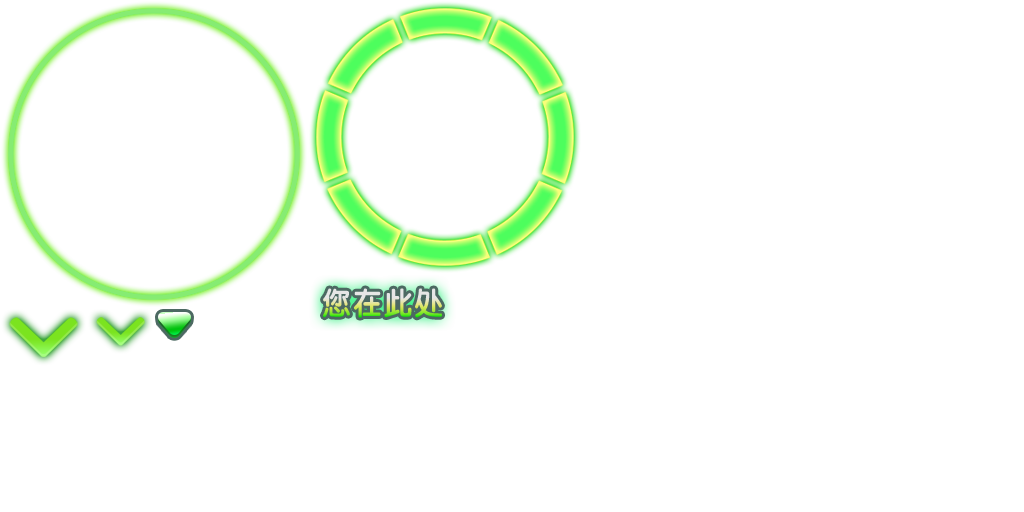
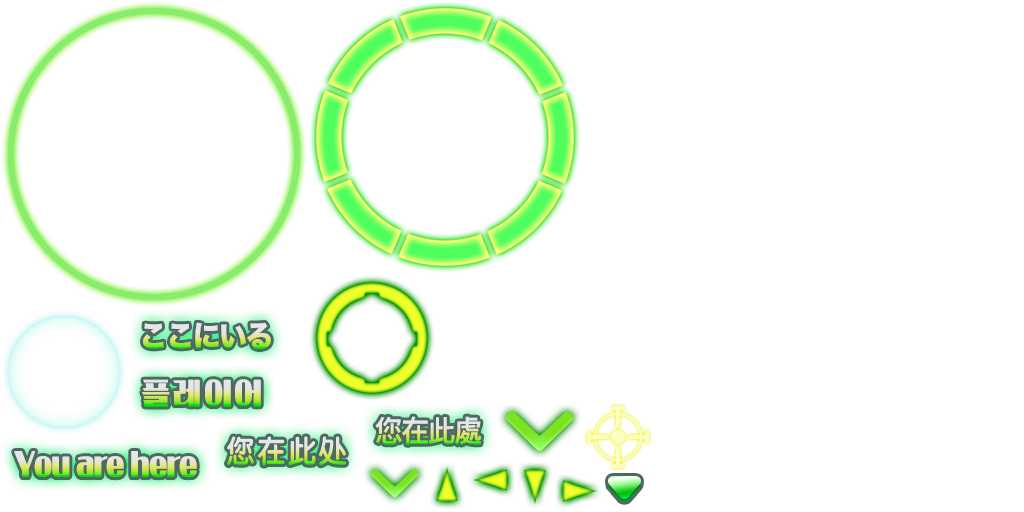
laya-module:[add] pos_tip 国际化

Changed region(s): [[0.0, 0.5312, 0.6562, 1.0]]

diff --git a/src/view/scenes/game/ani_wrap/posTip.ts b/src/view/scenes/game/ani_wrap/posTip.ts
@@ -2,12 +2,13 @@ import { createSprite } from 'utils/dataUtil';
 import { playSkeleton } from 'utils/utils';
 import { viewState } from 'view/viewState';
 import { Skeleton } from 'laya/ani/bone/Skeleton';
+import { getLang } from 'ctrl/hall/hallCtrlUtil';
+import { createAni, tempAni } from './award/awardCoin';
 
 /** 当前用户的位置的动画 */
 let pop_tip_ani: Skeleton;
 export function activePosTip() {
     createPosTip();
-    playSkeleton(pop_tip_ani, 0, true);
     return pop_tip_ani;
 }
 
@@ -15,20 +16,21 @@ export function stopPosTip() {
     if (!pop_tip_ani && pop_tip_ani.destroyed) {
         return;
     }
-    pop_tip_ani.stop();
-    pop_tip_ani.removeSelf();
+    tempAni('pos_tip', pop_tip_ani);
 }
 
 function createPosTip() {
+    const lang = getLang();
     const { ani_wrap } = viewState;
     const { upside_down } = viewState.game;
     if (!pop_tip_ani || pop_tip_ani.destroyed) {
-        pop_tip_ani = createSprite('other', 'pos_tip') as Skeleton;
-    }
-    if (upside_down) {
-        pop_tip_ani.scaleX = -1;
+        pop_tip_ani = createAni('pos_tip');
     }
     if (!pop_tip_ani.parent) {
         ani_wrap.addChild(pop_tip_ani);
     }
+    if (upside_down) {
+        pop_tip_ani.scaleX = -1;
+    }
+    playSkeleton(pop_tip_ani, lang, true);
 }

diff --git a/src/ctrl/ctrlUtils/audioCtrl.ts b/src/ctrl/ctrlUtils/audioCtrl.ts
@@ -17,7 +17,10 @@ export class AudioCtrl {
     public static setVoice(radio: number) {
         const { sound_manager } = this;
         this.voice = radio;
-        sound_manager.soundMuted = radio === 0.1;
+        const isMute = radio === 0;
+        if (isMute !== sound_manager.musicMuted) {
+            sound_manager.soundMuted = isMute;
+        }
         sound_manager.setSoundVolume(radio);
         this.event.emit(AudioEvent.VoiceChange, radio);
     }

diff --git a/test/app/game/aniWrap.spec.ts b/test/app/game/aniWrap.spec.ts
@@ -62,8 +62,10 @@ export const ani_wrap = new Test('ani_wrap', runner => {
         }
     });
 
-    runner.describe('pop_tip', () => {
-        activePosTip();
+    runner.describe('pos_tip', () => {
+        const pop_tip_ani = activePosTip();
+        pop_tip_ani.x = 300;
+        pop_tip_ani.y = 200;
     });
     runner.describe('aim', () => {
         const fish = [...modelState.app.game.fish_list][0];

diff --git a/bin/index.html b/bin/index.html
@@ -46,7 +46,7 @@
                 script.src = url;
                 document.body.appendChild(script);
             }
-            var CDN_VERSION = '20201304175440';
+            var CDN_VERSION = '20201304210206';
         </script>
         <script type="text/javascript" src="index.js"></script>
         <script type="text/javascript" src="webpack-dev-server.js"></script>

diff --git a/test/app/game/player.spec.ts b/test/app/game/player.spec.ts
@@ -14,7 +14,7 @@ export const player_test = new Test('player', runner => {
         // body_test.runTest('show_shape');
         const player_data = {
             user_id: test_data.userId,
-            server_index: 3,
+            server_index: 1,
             bullet_cost: 10,
             bullet_num: 100000000,
             gun_skin: '1',
